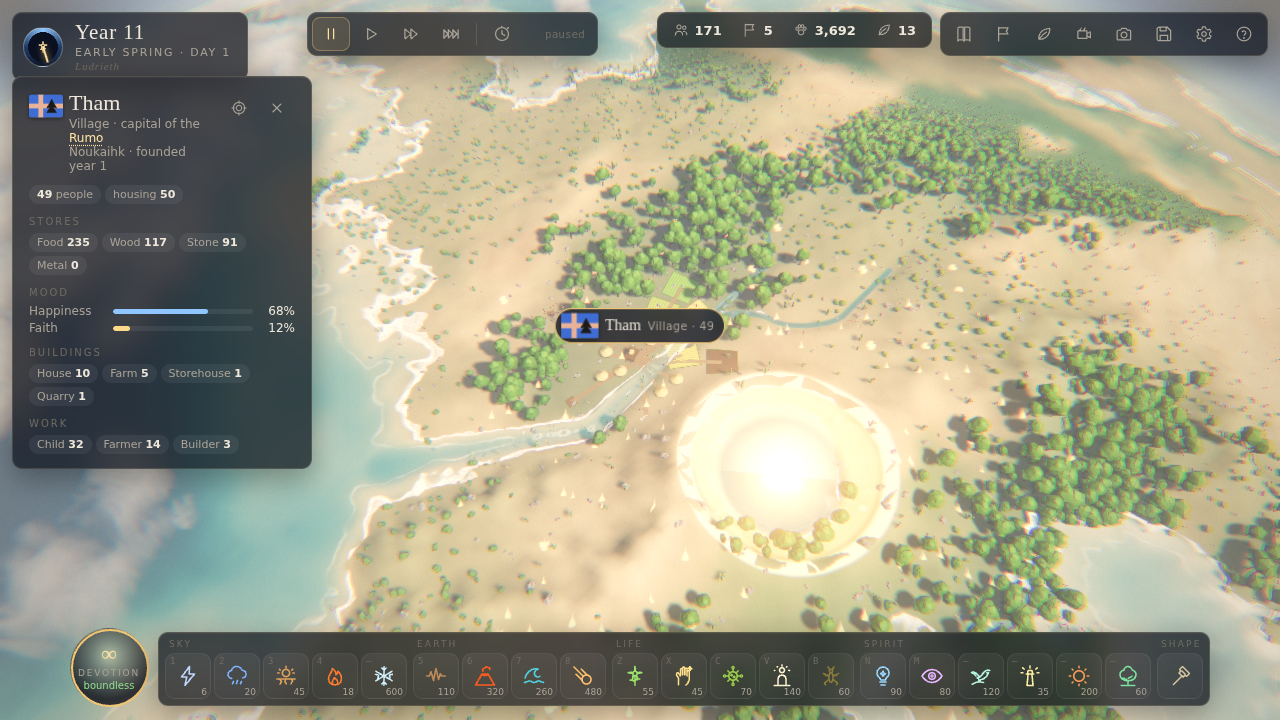
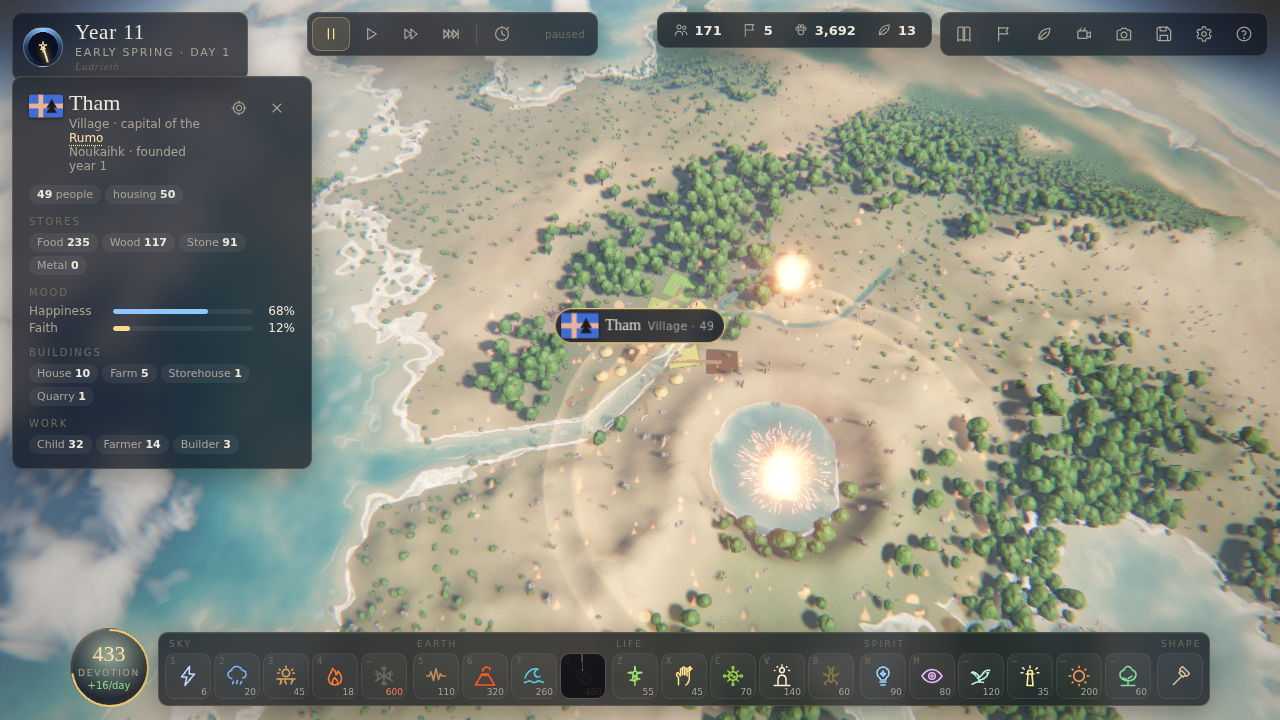
Fresh screenshots on the pass-4 code; lake shores on the rendered ground; meandering shelves; volcano view and plume
- All 13 landscapes and the UI captures regenerated (zero console errors);
  meteor captures cast on earned devotion.
- Lakes cut their shoreline against the terrain's own ground height (cubic
  + detail) instead of a bilinear lookup: smooth shores that match the land.
- Sea-floor reading domain-warped (~20 u) so steep shelf edges meander.
- Volcano seen from the landward side; lava on steep faces mostly crusted;
  smoke pales as it rises and is lighter on top.
- README: fog and scenario screenshots; FINAL_REPORT counts.

Claude-Session: https://claude.ai/code/session_01P1K7jeGpkvrVy88twc6oDA

diff --git a/src/render/water.ts b/src/render/water.ts
@@ -3,7 +3,7 @@
  * (ribbons following the simulated drainage network, flowing downstream).
  */
 import * as THREE from 'three';
-import { GLSL_ATMOSPHERE, GLSL_CONSTANTS, GLSL_CUBESPHERE, GLSL_HEIGHT, GLSL_NOISE, GLSL_REGION } from './glsl/common';
+import { GLSL_ATMOSPHERE, GLSL_CONSTANTS, GLSL_CUBESPHERE, GLSL_DETAIL, GLSL_HEIGHT, GLSL_NOISE, GLSL_REGION } from './glsl/common';
 import { GLSL_SKYLIGHT } from './glsl/surface';
 import { OCEAN_SHADING, type SharedUniforms } from './planet/terrain';
 import { faceABToDir } from '../sim/planet/cubesphere';
@@ -40,7 +40,7 @@ ${GLSL_REGION}
 ${GLSL_NOISE}
 ${GLSL_ATMOSPHERE}
 ${GLSL_SKYLIGHT}
-uniform vec3 uCamPos;
+${GLSL_DETAIL}
 uniform float uTime;
 ${OCEAN_SHADING}
 `;
@@ -53,7 +53,9 @@ in float vDist;
 in float vFringe;
 void main() {
   vec3 dir = normalize(vWorld);
-  float ground = heightAtDir(dir);
+  // The same ground the terrain draws (cubic + detail), so the shore is the
+  // exact, smooth line where the rendered ground meets the water.
+  float ground = groundHeight(dir);
   float depth = vLevel - ground;
   if (depth < -0.02) discard;
   // The fringe around a lake lets the shoreline follow the terrain contour

diff --git a/src/render/glsl/common.ts b/src/render/glsl/common.ts
@@ -287,13 +287,17 @@ float luma(vec3 c) { return dot(c, vec3(0.2126, 0.7152, 0.0722)); }
  * bilinearly upsampled coarse fields, which run in straight segments that kink
  * at coarse-cell corners. Below the shoreline (never at it) both the seabed
  * colour and the water depth see the same gentle noise, so shelf edges wander
- * like sand bars. Requires GLSL_NOISE.
+ * like sand bars. Requires GLSL_NOISE and GLSL_HEIGHT.
  */
 export const GLSL_SEABED = /* glsl */ `
 float seabed(float h, vec3 dir) {
   float k = smoothstep(-0.3, -1.6, h);
   if (k <= 0.0) return h;
   vec3 p = dir * PLANET_R;
-  return h + (snoise(p * 0.035) * 0.65 + snoise(p * 0.11 + 3.7) * 0.35) * 2.2 * k;
+  // Warp where the sea floor is read (up to ~20 u sideways) so steep shelf
+  // contours meander; never lift it into the shore band.
+  vec3 w = vec3(snoise(p * 0.02), snoise(p * 0.02 + 7.3), snoise(p * 0.02 + 13.1));
+  float hw = min(heightAtDir(normalize(dir + w * 0.018)), -0.3);
+  return mix(h, hw, k) + (snoise(p * 0.035) * 0.65 + snoise(p * 0.11 + 3.7) * 0.35) * 1.4 * k;
 }
 `;

diff --git a/src/render/planet/terrain.ts b/src/render/planet/terrain.ts
@@ -187,12 +187,12 @@ void main() {
     vec3 q = dir * PLANET_R;
     float n1 = snoise(q * 0.32 + vec3(0.0, uTime * 0.04, 0.0));
     float n2 = snoise(q * 1.05 - vec3(uTime * 0.07, 0.0, 0.0));
-    float veins = 1.0 - smoothstep(0.0, 0.16, abs(n1 * 0.7 + n2 * 0.3));
+    float veins = 1.0 - smoothstep(0.0, 0.11, abs(n1 * 0.7 + n2 * 0.3));
     float fresh = smoothstep(0.55, 0.95, si.emissive);
     float flatK = smoothstep(0.45, 0.8, dot(N, dir));
     float cover = smoothstep(0.02, 0.35, si.emissive);
     color = mix(color, vec3(0.03, 0.025, 0.022) * (0.4 + ndl), cover * 0.85);
-    float glow = mix(veins, 1.0, fresh * 0.65) * cover * mix(0.25, 1.0, flatK);
+    float glow = mix(veins, 1.0, fresh * 0.65 * flatK) * cover * mix(0.12, 1.0, flatK);
     color += vec3(3.4, 0.95, 0.2) * glow * (0.75 + 0.25 * snoise(q * 2.2 + uTime * 0.6));
   }
   vec3 ruv = regionUV(dir);

diff --git a/src/render/viewpoints.ts b/src/render/viewpoints.ts
@@ -196,7 +196,8 @@ export function computeViewpoint(r: GameRenderer, id: ViewpointId): Viewpoint {
     case 'volcano': {
       // An erupting volcano (divine or otherwise), framed at dusk for the glow.
       const v = r.effects.find((e) => e.power === 'volcano');
-      if (v) return { focus: new THREE.Vector3(v.x, v.y, v.z).normalize(), distance: 170, heading: 2.6, tiltOffset: 0.35, localTime: 0.68 };
+      // Seen from the landward side, looking down across the cone and its plume.
+      if (v) return { focus: new THREE.Vector3(v.x, v.y, v.z).normalize(), distance: 175, heading: 2.6 + Math.PI, tiltOffset: 0.45, localTime: 0.68 };
       const f = findBest(r, (d, h) => (h > 2 ? 1 : 0) - Math.abs(d.y), 800);
       return { focus: f, distance: 120, heading: 0.5, tiltOffset: 0, localTime: 0.4 };
     }

diff --git a/src/render/vfx.ts b/src/render/vfx.ts
@@ -116,7 +116,9 @@ void main() {
   } else if (vShape == 2.0) {
     float n = vnoise(uv * 2.5 + vSeed * 31.0) * 0.6 + vnoise(uv * 5.0 - vSeed * 13.0) * 0.4;
     a = smoothstep(1.0, 0.2, r + (n - 0.5) * 0.6);
-    col *= 0.8 + n * 0.4;
+    // Smoke pales as it rises and spreads (sunlit, thinning tops), and each
+    // puff is lighter on its upper side: a plume, not a flat dark smudge.
+    col *= (0.8 + n * 0.4) * (0.75 + vK * 0.9) * (1.0 + clamp(uv.y, -1.0, 1.0) * 0.18);
     fadeOut = 1.0 - smoothstep(0.3, 1.0, vK);
   } else if (vShape == 3.0 || vShape == 6.0) {
     a = exp(-r * r * 9.0) * (1.0 - smoothstep(0.7, 1.0, r));

diff --git a/FINAL_REPORT.md b/FINAL_REPORT.md
@@ -17,13 +17,13 @@ would build next.
 | `npm install && npm run dev` works | ✅ | Vite dev server is what every harness script boots (shots, monkey, perf, UI checks) |
 | `npm run build` | ✅ | `tsc --noEmit && vite build` succeeds (≈900 kB main chunk, 234 kB worker) |
 | `npm test` passes | ✅ | 9 suites, 25 tests (see below) |
-| `npm run shots` regenerates the screenshots | ✅ | 12 viewpoints in `docs/screenshots`, "zero console errors/warnings" gate |
+| `npm run shots` regenerates the screenshots | ✅ | 13 viewpoints in `docs/screenshots`, "zero console errors/warnings" gate |
 | Zero console errors | ✅ | Every shots/UI/perf run and the 5-minute monkey test (see below) |
 | All systems visible and emergent | ✅ | Screenshots; chronicle excerpts; debug traces of wars, plagues, ecology |
 | Performance budgets documented | ✅ | Performance section below (with the limits of what can be measured here) |
 | 8 scenarios winnable and losable | ✅ | `tests/scenarios.soak.test.ts`: each won and lost by scripted players, and lost by doing nothing |
 | Quality scores 9+ or explained | ✅ | QUALITY_LOG.md passes; final scores and explanations below |
-| README with ≥10 own screenshots | ✅ | README.md: 12 landscape + 8 interface captures |
+| README with ≥10 own screenshots | ✅ | README.md: 13 landscape + 8 interface captures |
 | FINAL_REPORT.md | ✅ | This file |
 
 ## Tests
